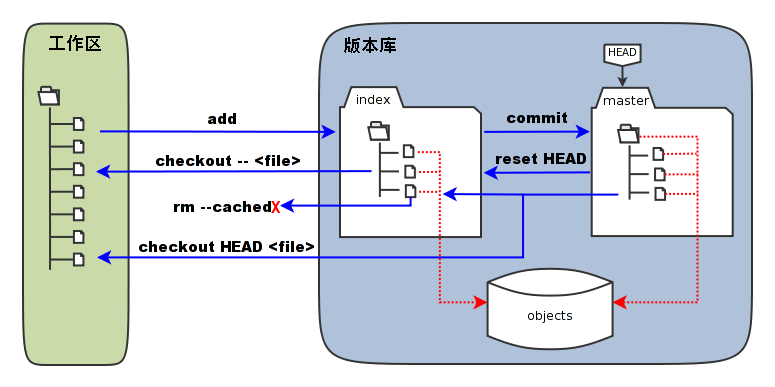
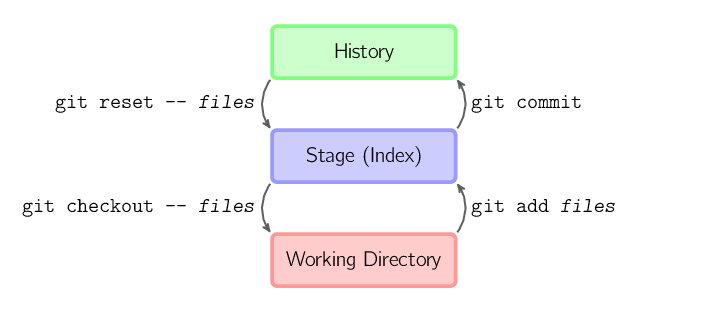
add about head and master

diff --git a/study/Git.md b/study/Git.md
@@ -45,13 +45,24 @@ __工作区（Working Directory）:__ 我们自己建立的项目文件夹即工
 
 __版本库（Repository）:__ 在初始化git版本库之后会生成一个隐藏的目录.git,这个就是Git的版本库.
 
-在.git目录里面还很多文件，其中有一个index目录，就是**暂存区(stage)**，暂存区可以理解为一个虚拟工作区，这个虚拟工作区会跟踪工作区的文件变化（增删改等操作），另外Git还为我们自动生成了一个分支master以及指向该分支的指针head.
+在.git目录里面还很多文件，其中有一个index目录，就是**暂存区(stage)**，暂存区可以理解为一个虚拟工作区，这个虚拟工作区会跟踪工作区的文件变化（增删改等操作），另外Git还为我们自动生成了一个分支master以及指向该分支的指针head。
+
+![stage](../img/other/git_head_master.png)
+
+HEAD 就是当前活跃分支的游标。形象的记忆就是：你现在在哪儿，HEAD 就指向哪儿，所以 Git 才知道你在那儿！
+
+不过 HEAD 并非只能指向分支的最顶端（时间节点距今最近的那个），实际上它可以指向任何一个节点，它就是 Git 内部用来追踪当前位置的东东。
 
 ![stage](../img/other/git_stage.jpg)
 
 
 
-__说明:__ 平时我们使用的命令`git add readme.txt`实际上是把所有的修改从工作区提交到暂存区，`git commit -m "add readme"`是一次性把暂存区的所有修改提交到分支，因为我们创建Git版本库时，Git自动为我们创建了唯一一个master分支，所以commit就提交到了master上了。
+__说明:__ 上面的四条命令在工作区、暂存区(也叫做索引)和仓库之间复制文件。
+
+- `git add files` 把当前文件放入暂存区域。
+- `git commit` 给暂存区域生成快照并提交。
+- `git reset -- files` 用来撤销最后一次`git add files`，你也可以用`git reset` 撤销所有暂存区域文件。
+- `git checkout -- files `把文件从暂存区域复制到工作目录，用来丢弃本地修改。
 
 ### 撤销修改
 
@@ -195,3 +206,9 @@ git merge --no-ff -m "merge with no-ff" dev
 所以，团队合作的分支看起来就像这样：
 
 ![git-br-policy](../img/other/git-br-policy.png)
+
+### Read More
+
+[图解Git](http://marklodato.github.io/visual-git-guide/index-zh-cn.html)
+
+[Git教程](http://www.liaoxuefeng.com/wiki/0013739516305929606dd18361248578c67b8067c8c017b000)
